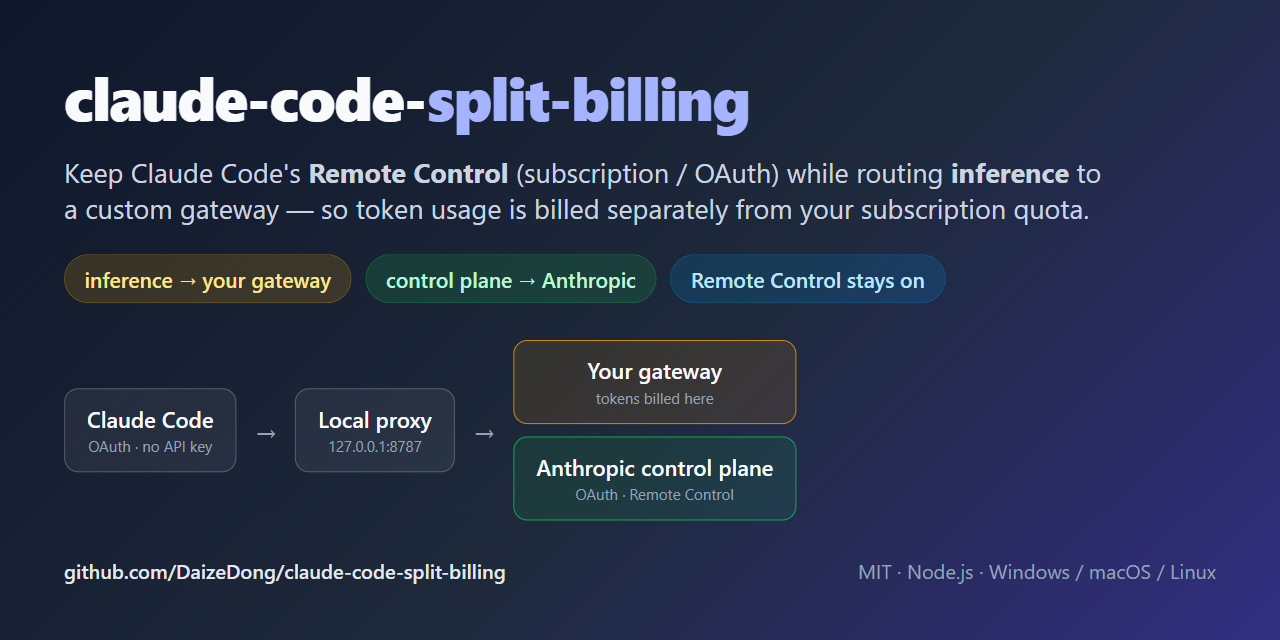
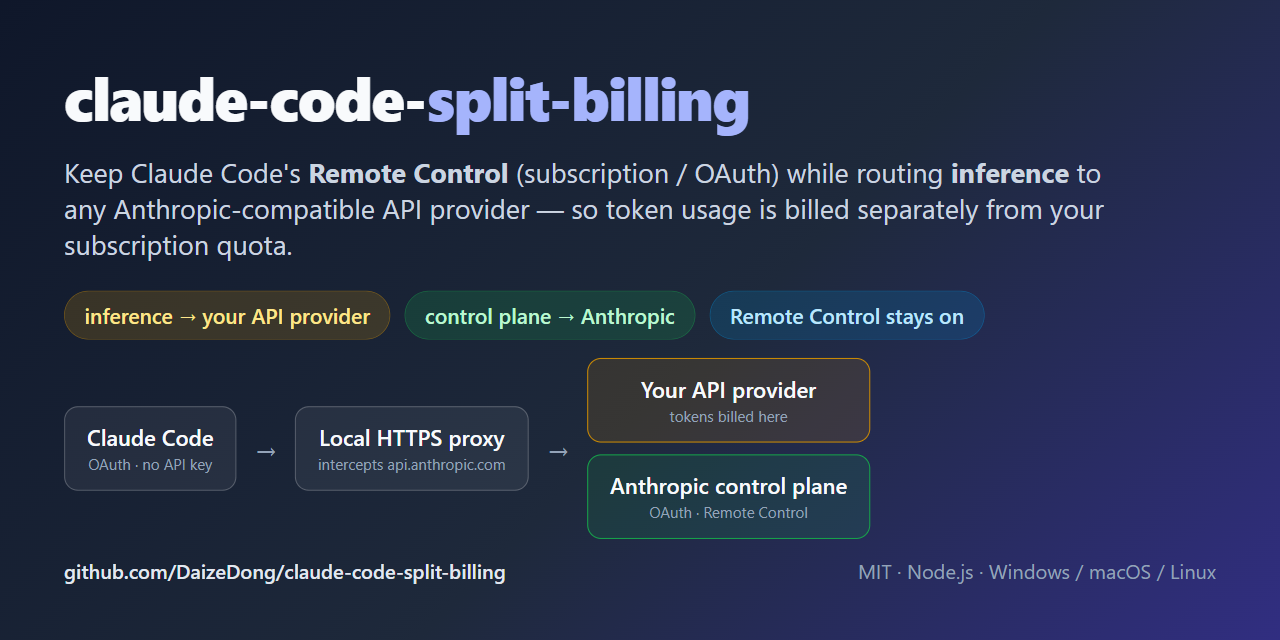
docs: redraw diagrams + social card for MITM architecture
Update architecture.dot / request-flow.dot / social-card.html to the
hosts-hijack + local HTTPS interception design (was the old 127.0.0.1:8787
base-URL proxy), and generalize wording to "any Anthropic-compatible API
provider". Re-rendered svg/png (Graphviz) and social-preview.png.

Claude-Session: https://claude.ai/code/session_01M1aR6WjxECwYbGW2fZzXPf

diff --git a/docs/social-card.html b/docs/social-card.html
@@ -48,11 +48,11 @@
     <h1>claude-code-<span class="accent">split-billing</span></h1>
     <div class="tagline">
       Keep Claude Code's <b>Remote Control</b> (subscription / OAuth) while routing
-      <b>inference</b> to a custom gateway &mdash; so token usage is billed separately
-      from your subscription quota.
+      <b>inference</b> to any Anthropic-compatible API provider &mdash; so token usage is
+      billed separately from your subscription quota.
     </div>
     <div class="chips">
-      <span class="chip amber">inference &rarr; your gateway</span>
+      <span class="chip amber">inference &rarr; your API provider</span>
       <span class="chip green">control plane &rarr; Anthropic</span>
       <span class="chip blue">Remote Control stays on</span>
     </div>
@@ -61,10 +61,10 @@
   <div class="flow">
     <div class="node">Claude Code<small>OAuth · no API key</small></div>
     <span class="arrow">&rarr;</span>
-    <div class="node">Local proxy<small>127.0.0.1:8787</small></div>
+    <div class="node">Local HTTPS proxy<small>intercepts api.anthropic.com</small></div>
     <span class="arrow">&rarr;</span>
     <div class="branch">
-      <div class="node gw">Your gateway<small>tokens billed here</small></div>
+      <div class="node gw">Your API provider<small>tokens billed here</small></div>
       <div class="node ctl">Anthropic control plane<small>OAuth · Remote Control</small></div>
     </div>
   </div>